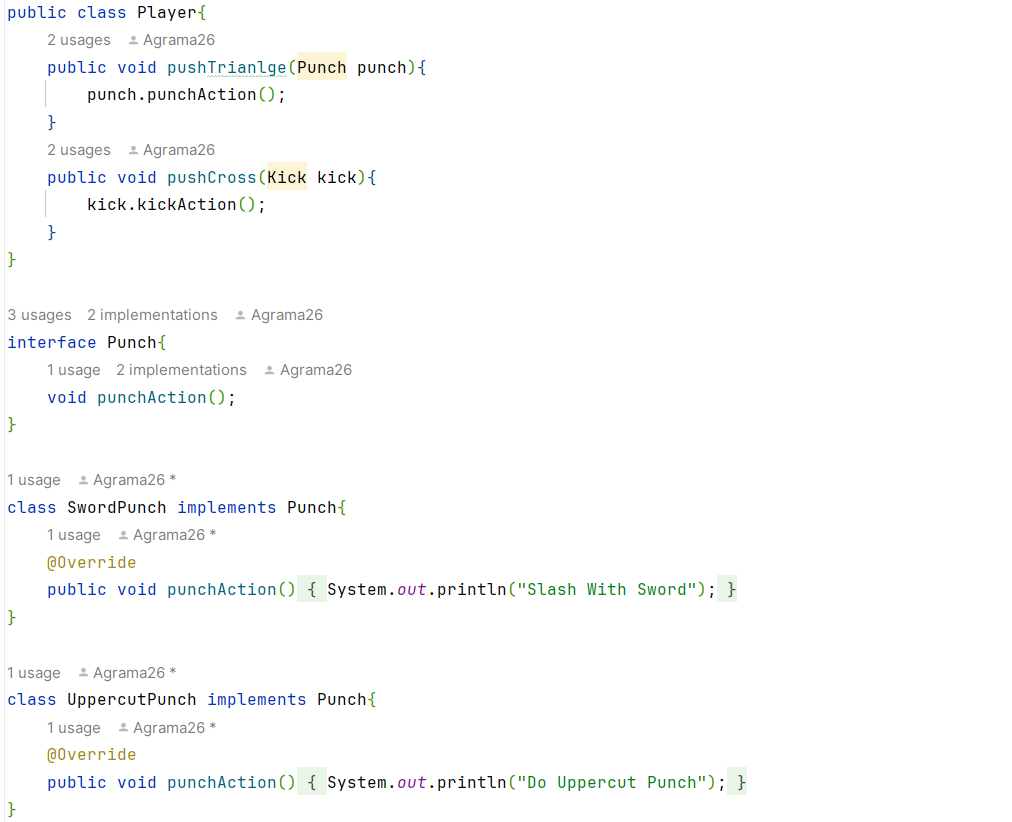
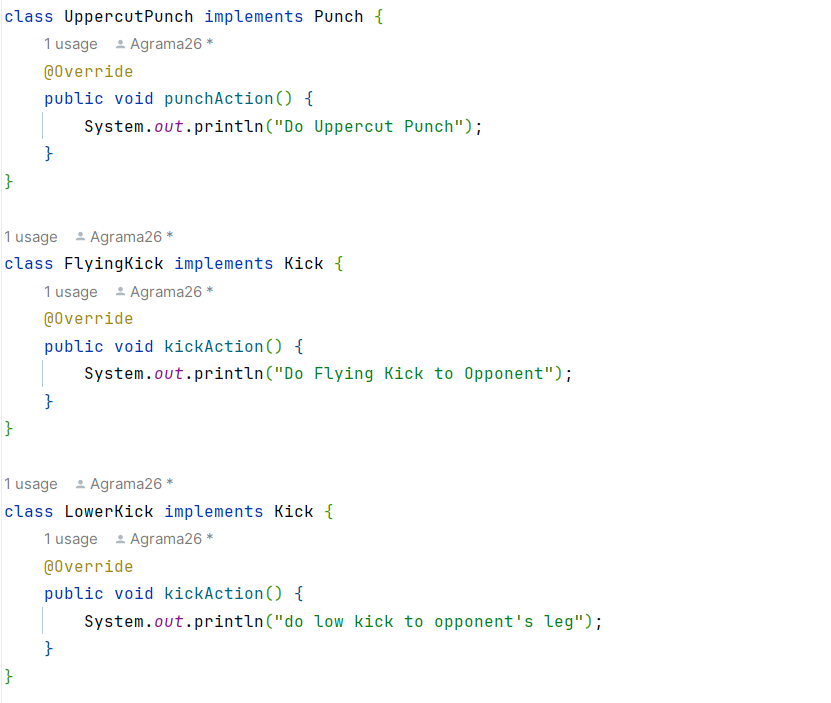
Menambahkan Gambar ScreenShoot Code dan hasil 2

diff --git a/src/Player.java b/src/Player.java
@@ -1,62 +1,48 @@
-//public class Player{
-//    public void pushTrianlge(String mode){
-//        if(mode.equals("sword")){
-//            System.out.println("punch with sword");
-//        }
-//        if(mode.equals("uppercut")){
-//            System.out.println("do uppercut punch");
-//        }
-//    }
-//    public void pushCross(String mode){
-//        if(mode.equals("flying kick")){
-//            System.out.println("do flying kick to opponent");
-//        }
-//        if(mode.equals("lower kick")){
-//            System.out.println("do low kick to opponent's leg");
-//        }
-//    }
-//}
+interface Punch {
+    void punchAction();
+}
 
-public class Player{
-    public void pushTrianlge(Punch punch){
+interface Kick {
+    void kickAction();
+}
+
+public class Player {
+    Punch punch;
+    Kick kick;
+
+    public void pushTriangle() {
         punch.punchAction();
     }
-    public void pushCross(Kick kick){
+
+    public void pushCross() {
         kick.kickAction();
     }
 }
 
-interface Punch{
-    void punchAction();
-}
-
-class SwordPunch implements Punch{
+class SwordPunch implements Punch {
     @Override
-    public void punchAction(){
+    public void punchAction() {
         System.out.println("Slash With Sword");
     }
 }
 
-class UppercutPunch implements Punch{
+class UppercutPunch implements Punch {
     @Override
-    public void punchAction(){
+    public void punchAction() {
         System.out.println("Do Uppercut Punch");
     }
 }
 
-interface Kick{
-    void kickAction();
-}
-
-class FlyingKick implements Kick{
+class FlyingKick implements Kick {
     @Override
-    public void kickAction(){
+    public void kickAction() {
         System.out.println("Do Flying Kick to Opponent");
     }
 }
-class LowerKick implements Kick{
+
+class LowerKick implements Kick {
     @Override
-    public void kickAction(){
+    public void kickAction() {
         System.out.println("do low kick to opponent's leg");
     }
 }

diff --git a/src/Main.java b/src/Main.java
@@ -5,21 +5,47 @@ public class Main {
 
         System.out.println("Serangan Player 1 : ");
         Player yoshimitsu = new Player();
-        yoshimitsu.pushCross(new FlyingKick());
-        yoshimitsu.pushTrianlge(new SwordPunch());
+        yoshimitsu.kick = new FlyingKick();
+        yoshimitsu.punch = new SwordPunch();
+        yoshimitsu.pushCross();
+        yoshimitsu.pushTriangle();
+
         System.out.println("\nSerangan Player 2 : ");
         Player Akatsuki = new Player();
-        Akatsuki.pushCross(new LowerKick());
-        Akatsuki.pushTrianlge(new UppercutPunch());
+        Akatsuki.kick = new LowerKick();
+        Akatsuki.punch = new UppercutPunch();
+        Akatsuki.pushCross();
+        Akatsuki.pushTriangle();
 
         System.out.println("\nJenis Jenis Bebek : ");
+        System.out.println("\nBebek 1 : ");
         Duck mallard = new MallardDuck();
         mallard.performQuack();
         mallard.performFly();
         mallard.swim();
         mallard.display();
 
-        System.out.println("\nBebek 2 : ");
+        System.out.println("\nBebek 2 :");
+        Duck Read = new RedHeadDuck();
+        Read.display();
+        Read.performQuack();
+        Read.swim();
+        Read.performFly();
+
+        System.out.println("\nBebek 3 :");
+        Duck Wodden = new WoodenDuck();
+        Wodden.display();
+        Wodden.swim();
+        Wodden.performFly();
+        Wodden.performQuack();
+
+        System.out.println("\nBebek 4 :");
+        Duck Ber = new RubberDuck();
+        Ber.display();
+        Ber.swim();
+        Ber.performQuack();
+
+        System.out.println("\nBebek Mainan : ");
         Duck modelduck = new ModelDuck();
         modelduck.performFly(); // Akan memanggil contructor modelduck(FlyNoway)
         modelduck.setFlyBehavior((new FlyWithRocketPower()));
